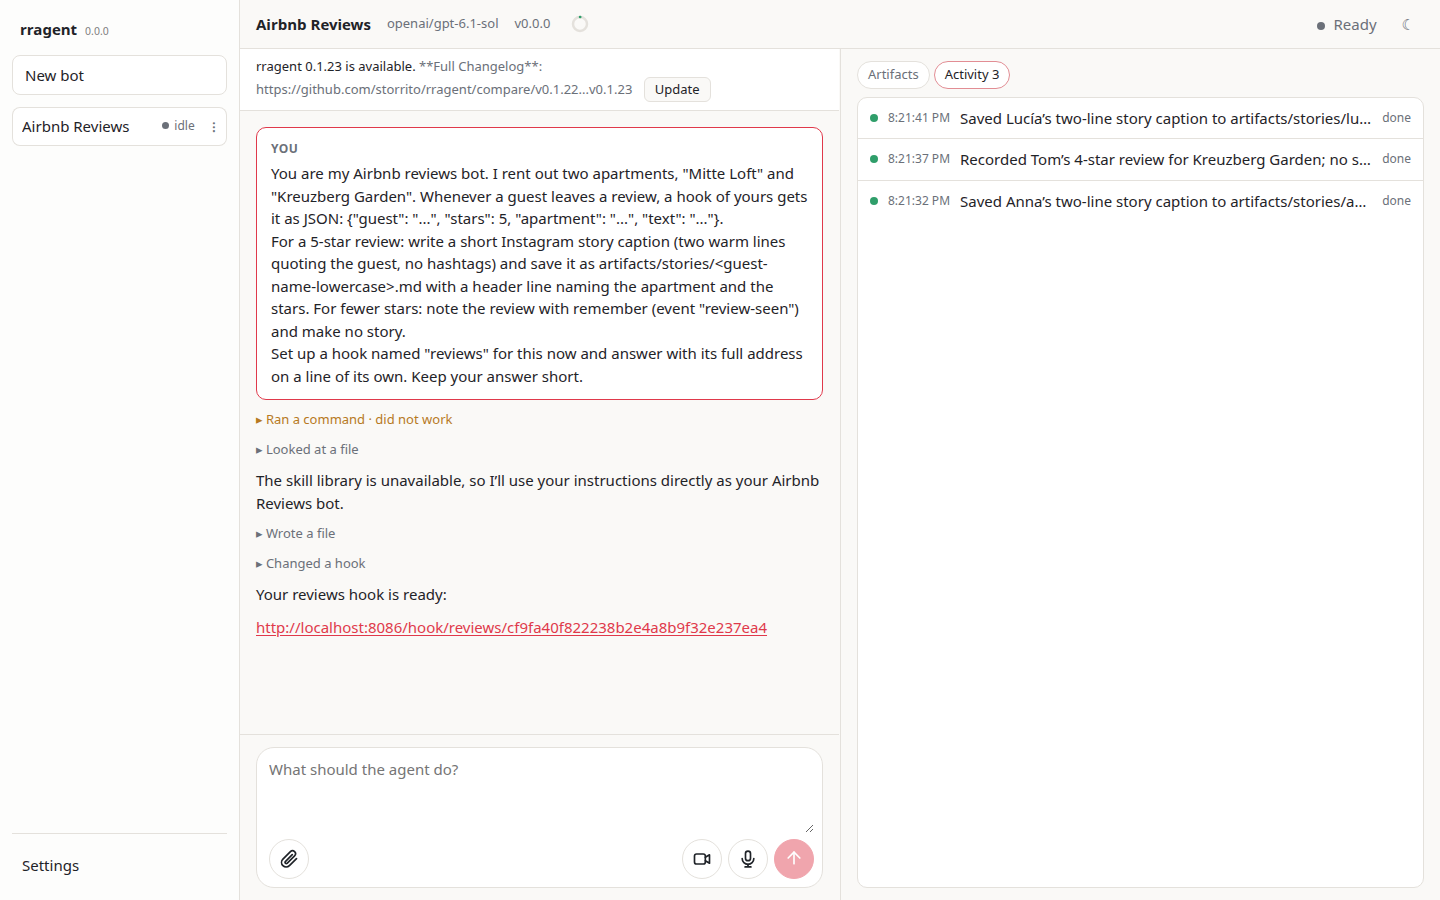
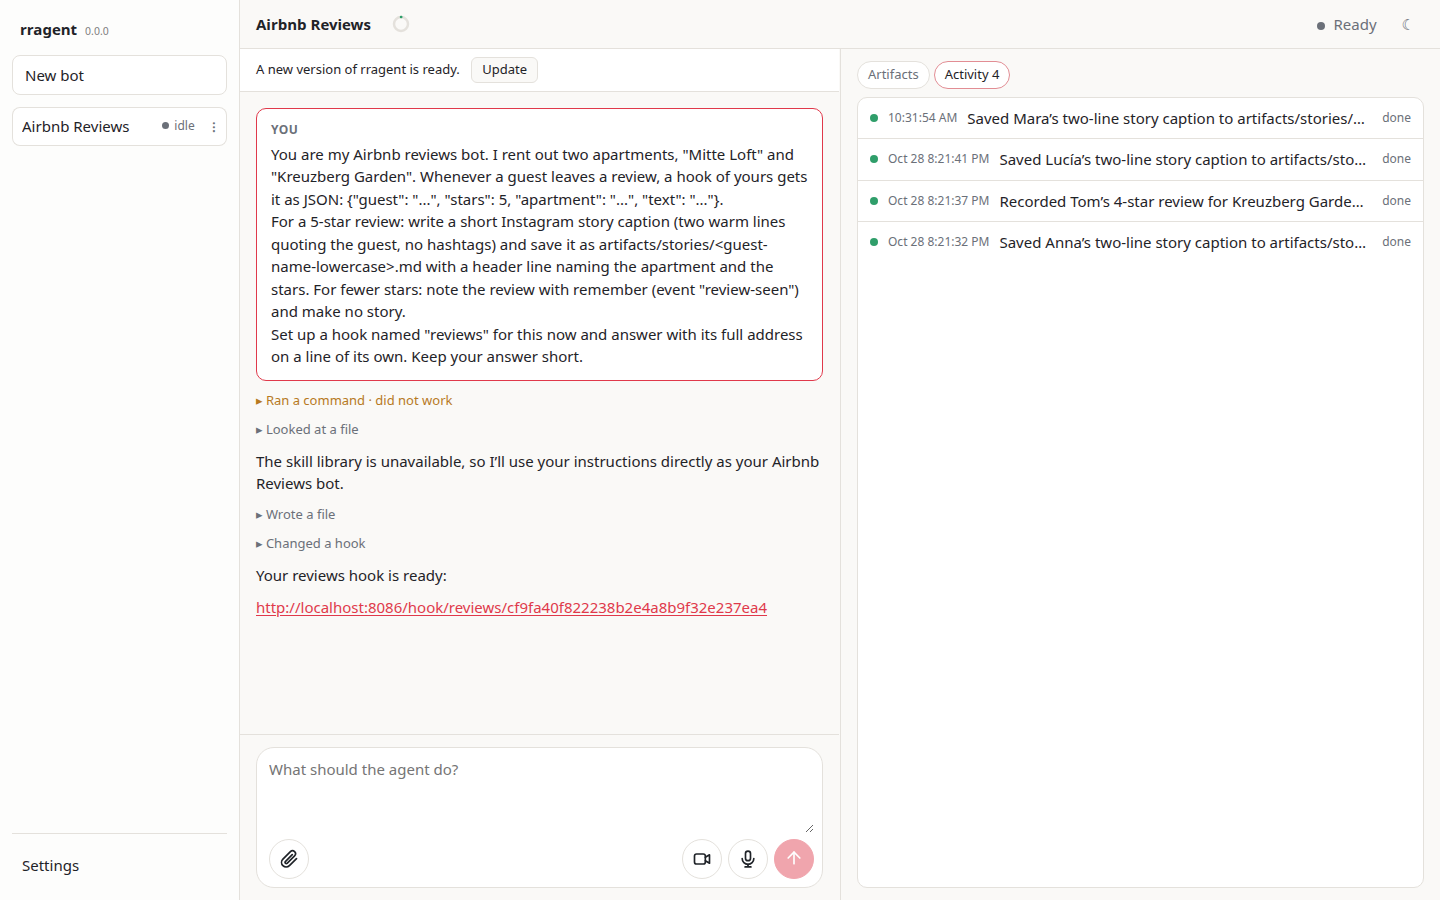
Plain words: what started a run in the hook's purpose, dates on older rows, a header without developer furniture
The activity rows and the run's strip say what started the run in the
hook's purpose or the schedule's text; rows older than today carry the
date; the header keeps the bot's name and the context ring, whose card
names the model, the version and the release notes being the
settings'; the update banner says only that a new version is ready;
the bot says in one sentence what a failed step means for the person.
The screenshots of the docs retaken.

Claude-Session: https://claude.ai/code/session_014vHd2aFqEJAjDVNc8NaduJ

diff --git a/docs/runs-and-skills.md b/docs/runs-and-skills.md
@@ -200,6 +200,22 @@ compaction takes it from the bot too. Hence:
     strip and says when the bot's has changed since, so "why did
     Tuesday's run do that?" has an answer without the transcript.
 
+### Plain words for the person (2026-10-29)
+
+Ten questions on what a person who is not technical would stumble
+over, answered one by one. Changed: the activity rows and the run's
+strip say what started the run in the hook's purpose or the schedule's
+text ("A new review"), not its name; rows older than today carry the
+date; the header shows the bot's name and the context ring only, the
+model is named in the ring's card, the version and the release notes
+are the settings'; the update banner says "A new version of rragent is
+ready" and nothing more; the bot says in one sentence what a failed
+step of its means for the person, or nothing. Kept as they are: the
+word "hook" and its address in the chat, "Artifacts", the run's
+definition folded with its frontmatter, the composer of a finished run
+(it takes orders), no "this happens without asking" line when a
+trigger is set, the run's closing line as the model writes it.
+
 ## How it is built
 
 - `rragent.events`: the events file, `remember` and `recall` over it,

diff --git a/deploy/agent/AGENT.md b/deploy/agent/AGENT.md
@@ -107,6 +107,10 @@ rare event you want to talk about here instead, create the hook or the
 schedule with `mode: message`; never for anything frequent, this chat
 is the person's.
 
+When a step of yours did not work (a command, a file, a call), say in
+one sentence what it means for the person, or nothing when it means
+nothing to them; never the error's own words.
+
 Name yourself: once you know what the person wants from you, in the turn
 after your first answer at the latest, never before you answered, write a
 short fitting name (two or three
